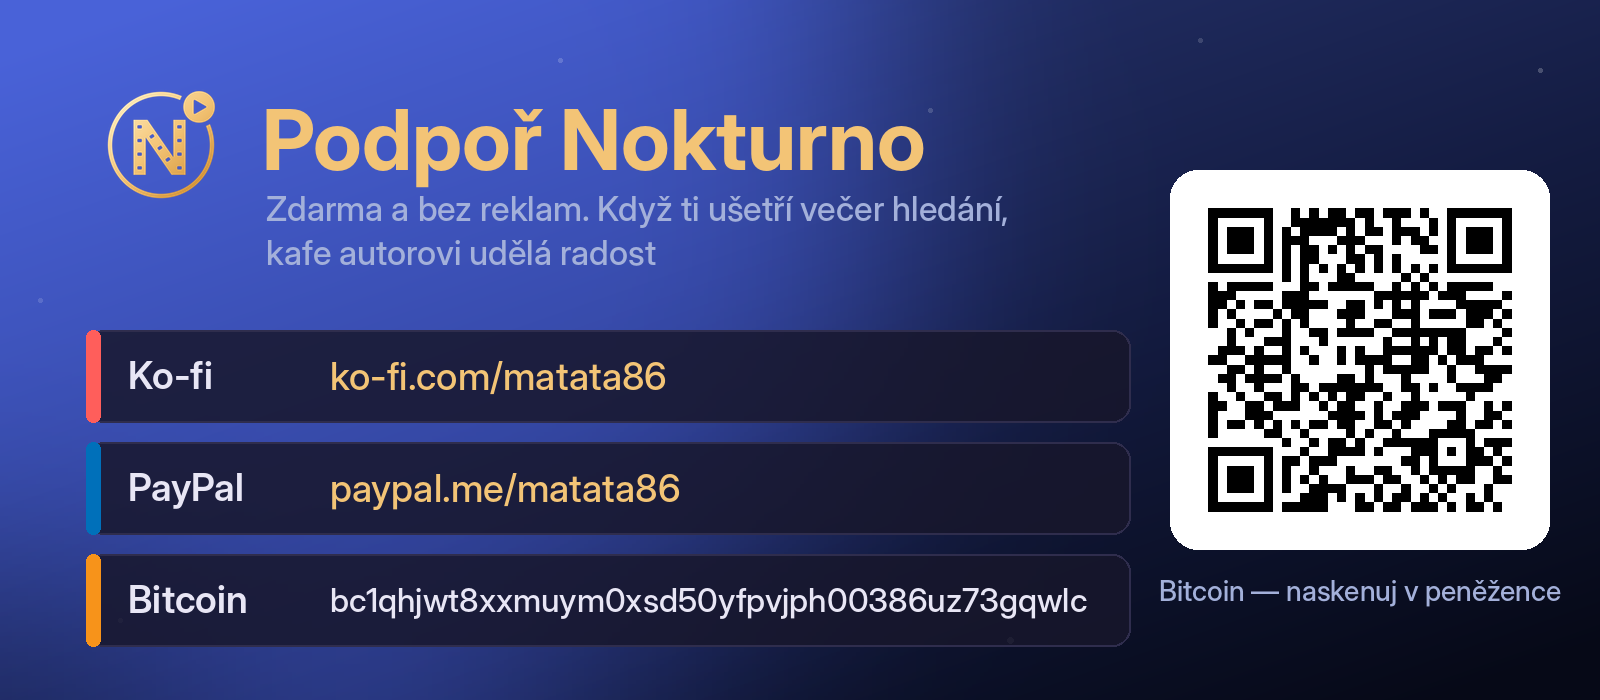
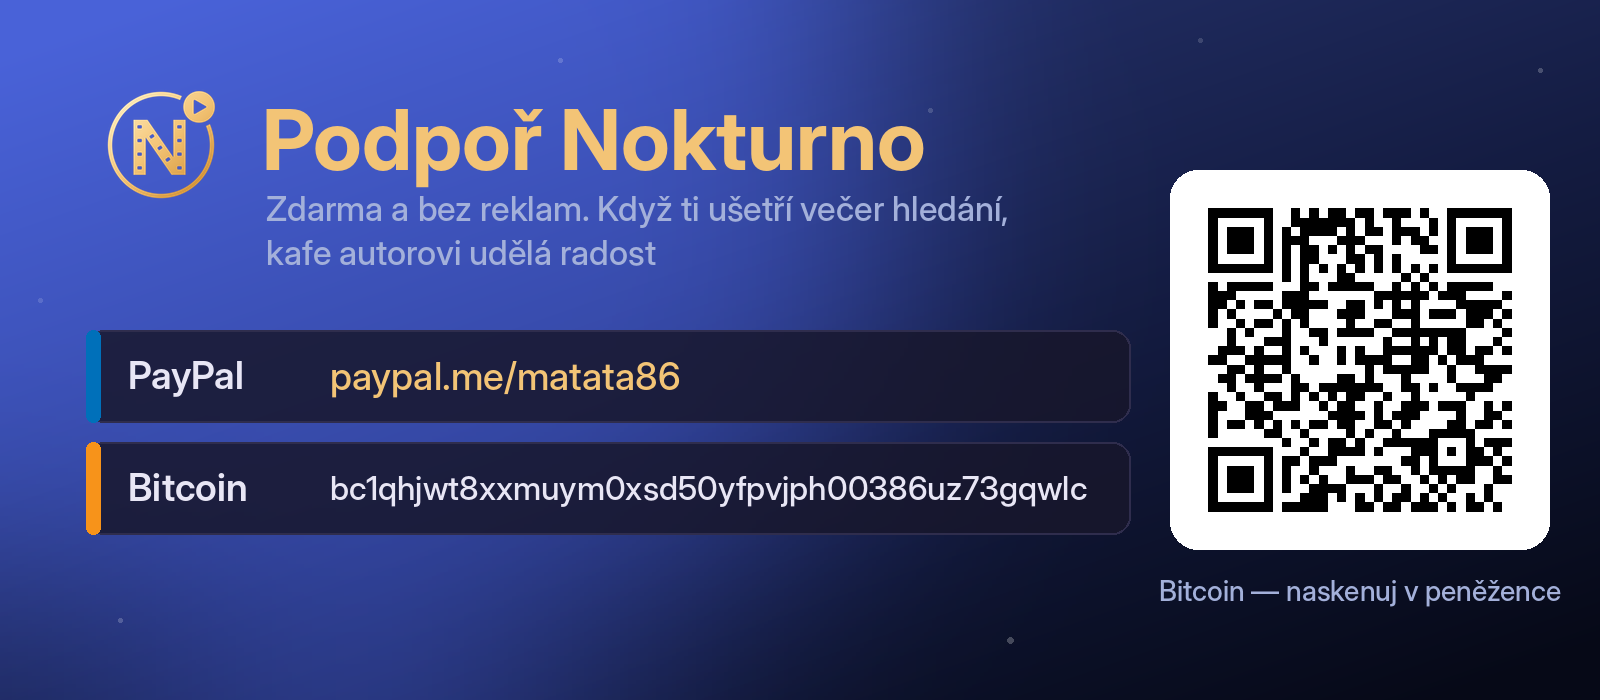
Odebrán odkaz na Ko-fi z README a obrázku podpory

diff --git a/README.md b/README.md
@@ -1,6 +1,6 @@
 # nokturno-core
 
-[![Ko-fi](https://img.shields.io/badge/Ko--fi-podpo%C5%99%20autora-ff5e5b?logo=ko-fi&logoColor=white)](https://ko-fi.com/matata86) [![PayPal](https://img.shields.io/badge/PayPal-paypal.me%2Fmatata86-00457C?logo=paypal&logoColor=white)](https://paypal.me/matata86) [![Bitcoin](https://img.shields.io/badge/Bitcoin-BTC-f7931a?logo=bitcoin&logoColor=white)](#podpora)
+[![PayPal](https://img.shields.io/badge/PayPal-paypal.me%2Fmatata86-00457C?logo=paypal&logoColor=white)](https://paypal.me/matata86) [![Bitcoin](https://img.shields.io/badge/Bitcoin-BTC-f7931a?logo=bitcoin&logoColor=white)](#podpora)
 
 Sdílené jádro Nokturna. Hledání a streamy ve WebShare, Sosáči, HellSpy, Sledujteto, FastShare, CZtoru, Luně
 a na trackerech přes Prowlarr — bez vazby na hostitele.
@@ -76,9 +76,8 @@ z větve pro Home Assistant.
 
 ## Podpora
 
-[![Podpoř Nokturno — Ko-fi, PayPal, Bitcoin](.github/podpora.png)](https://ko-fi.com/matata86)
+[![Podpoř Nokturno — PayPal, Bitcoin](.github/podpora.png)](https://paypal.me/matata86)
 
-- **Ko-fi:** https://ko-fi.com/matata86
 - **PayPal:** https://paypal.me/matata86
 - **Bitcoin:** `bc1qhjwt8xxmuym0xsd50yfpvjph00386uz73gqwlc`
 
